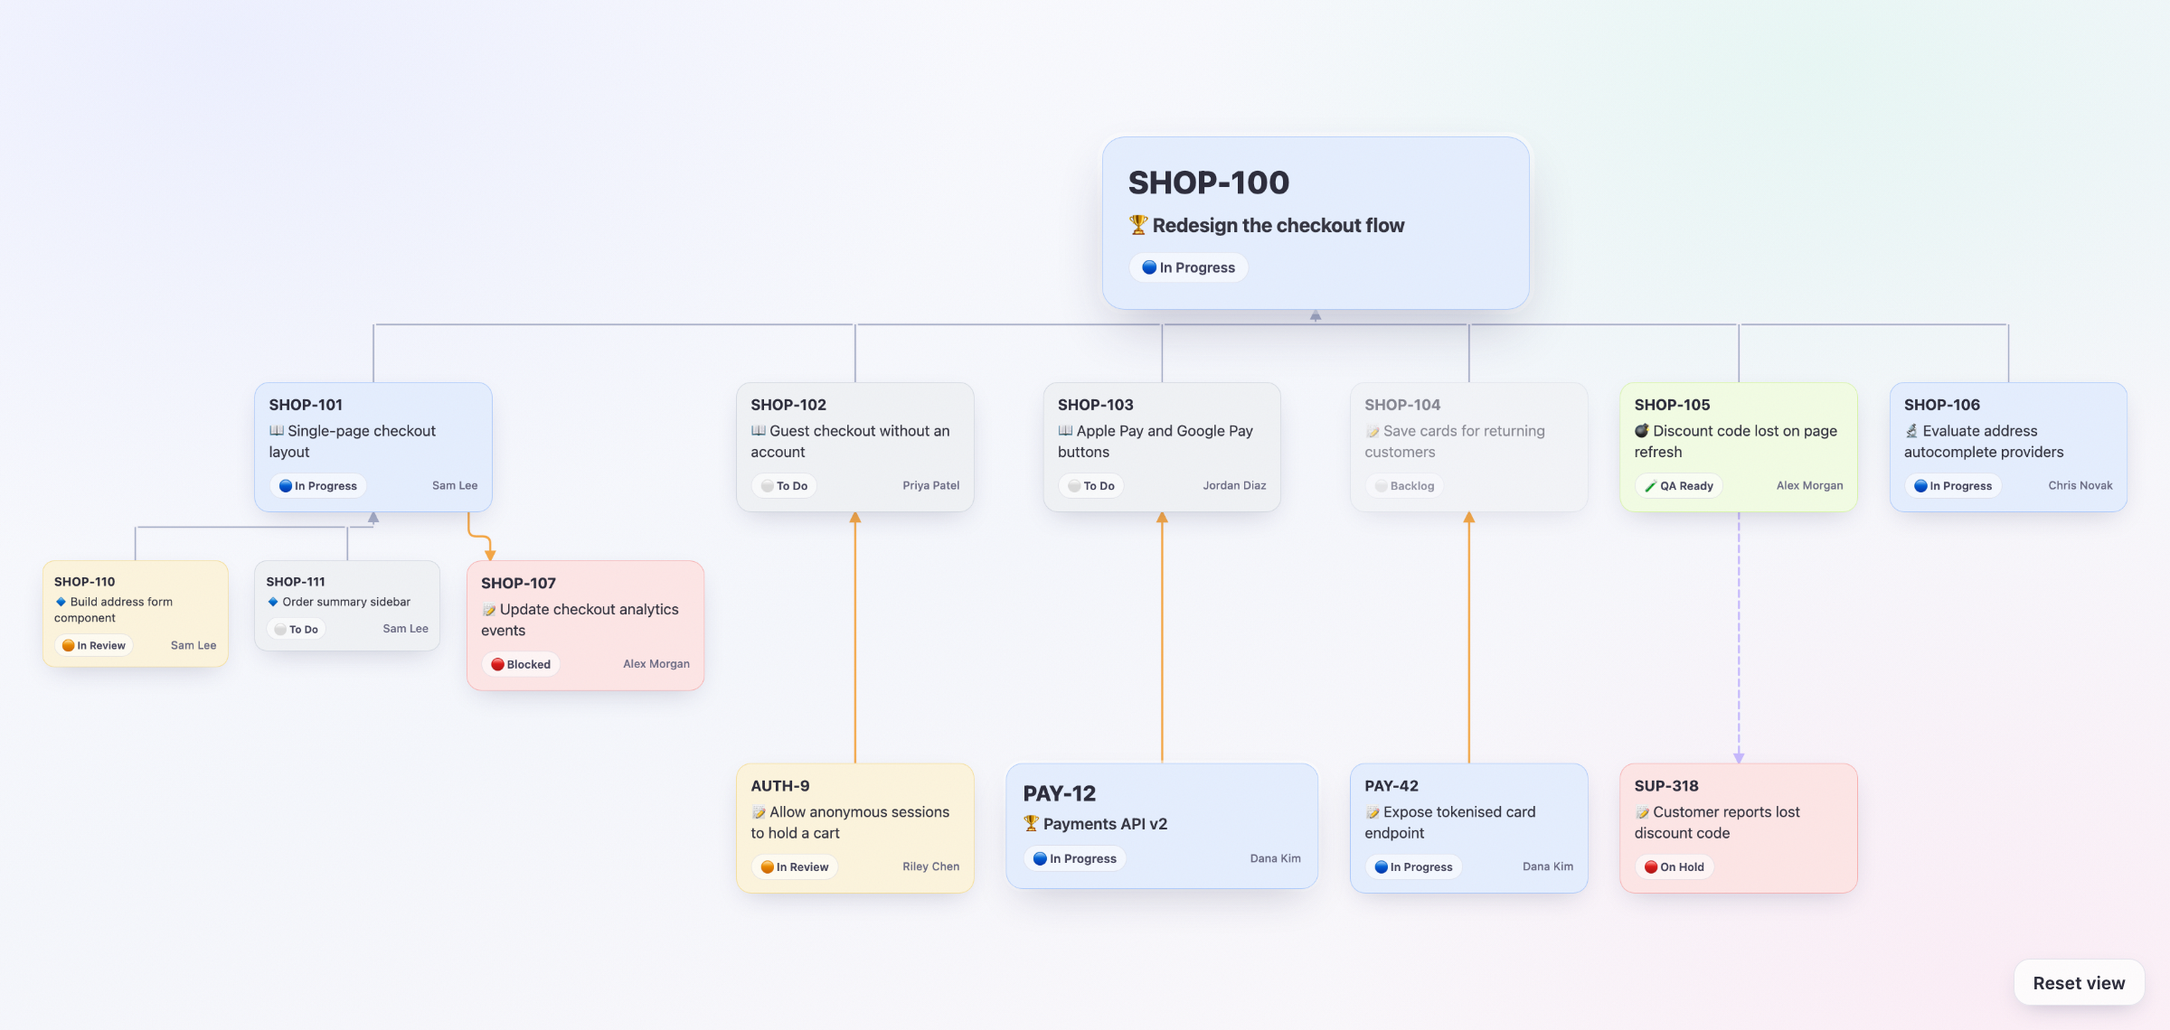
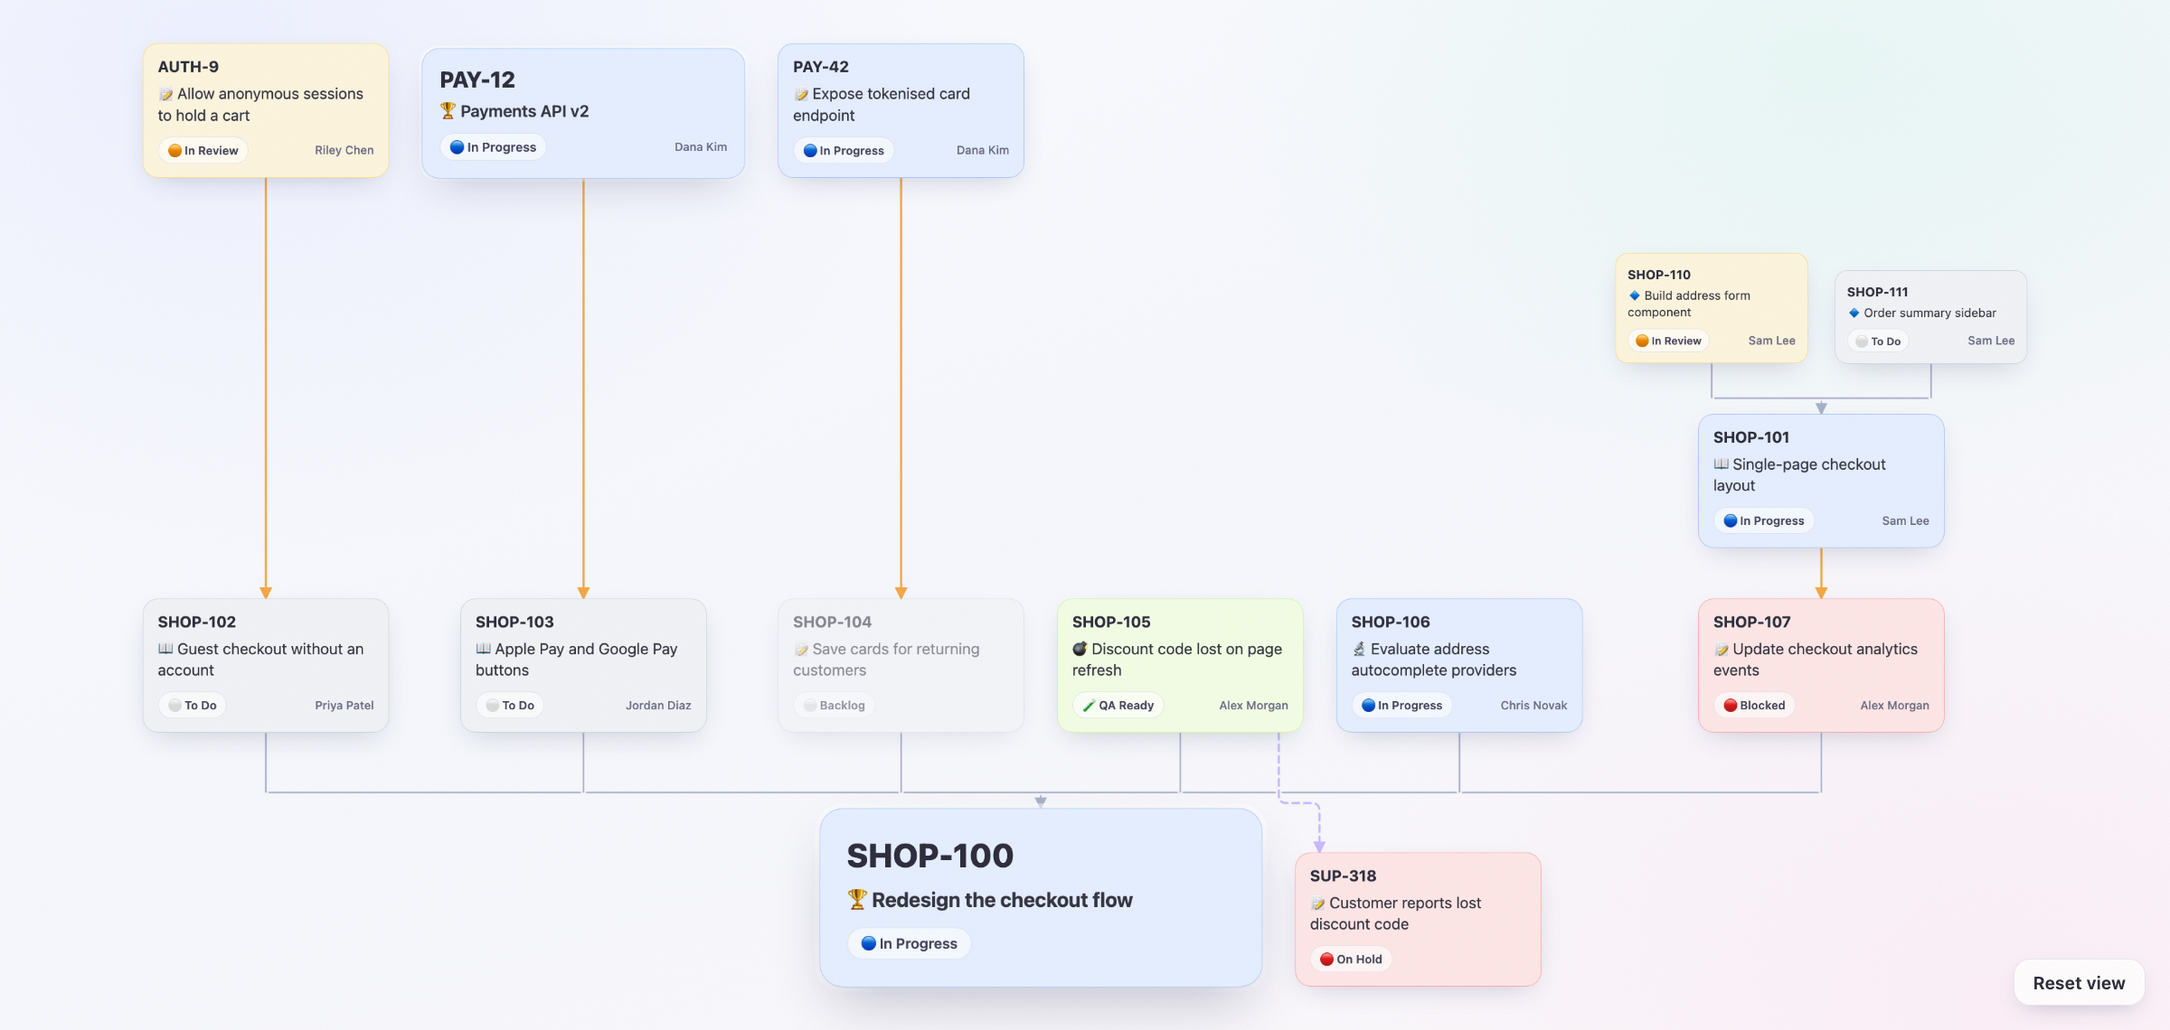
Switch to top-down flow

diff --git a/examples/demo.html b/examples/demo.html
@@ -209,29 +209,29 @@ function render(){
     childParent[child] = parent;
     childKids[parent].push(child);
   });
-  // Nest a blocked task UNDER its blocker so the children form a blocking tree. The blocker has to
-  // sit inside the branch the blocked task already belongs to, so a real sub-task is never dragged
-  // out of its own parent. The blocked task's now-redundant line to its old parent is dropped
-  // (see elist below).
+  // Nest a blocker UNDER the task it blocks, so work flows from the far end of the tree toward the
+  // epic. The blocked task has to sit inside the branch the blocker already belongs to, so a real
+  // sub-task is never dragged out of its own parent. The blocker's now-redundant line to its old
+  // parent is dropped (see elist below).
   const isAncestor = (a, k) => { for (let x = k, n = 0; x !== undefined && n < 5000; x = childParent[x], n++){ if (x === a) return true; } return false; };
   const depthOf = k => { let d = 0; for (let x = childParent[k]; x !== undefined && d < 5000; x = childParent[x]) d++; return d; };
   const blockLinks = DATA.edges
     .filter(e => e.kind === 'block' && elById[e.head] && elById[(e.from === e.head) ? e.to : e.from])
     .map(e => ({ blocked: e.head, blocker: (e.from === e.head) ? e.to : e.from }));
-  // Keep passing until nothing moves. A blocker is often nested itself on a later pass, and only
-  // then do the tasks it blocks become eligible. Deepest blocker first, so a task with several
-  // blockers ends up below all of them rather than above the ones handled later.
+  // Keep passing until nothing moves. A blocked task is often nested itself on a later pass, and
+  // only then do its blockers become eligible. Deepest blocked task first, so a task that blocks
+  // several others ends up further from the epic than all of them.
   for (let pass = 0; pass < 100; pass++){
     let moved = false;
-    blockLinks.slice().sort((a, b) => depthOf(b.blocker) - depthOf(a.blocker)).forEach(({ blocked, blocker }) => {
-      const p = childParent[blocked];
-      if (p === undefined || p === blocker) return;
-      if (!isAncestor(p, blocker)) return;        // blocker must be inside the blocked task's branch
-      if (isAncestor(blocked, blocker)) return;   // no cycle
-      const arr = childKids[p], i = arr.indexOf(blocked);
+    blockLinks.slice().sort((a, b) => depthOf(b.blocked) - depthOf(a.blocked)).forEach(({ blocked, blocker }) => {
+      const p = childParent[blocker];
+      if (p === undefined || p === blocked) return;
+      if (!isAncestor(p, blocked)) return;        // blocked task must be inside the blocker's branch
+      if (isAncestor(blocker, blocked)) return;   // no cycle
+      const arr = childKids[p], i = arr.indexOf(blocker);
       if (i >= 0) arr.splice(i, 1);
-      childParent[blocked] = blocker;
-      childKids[blocker].push(blocked);
+      childParent[blocker] = blocked;
+      childKids[blocked].push(blocker);
       moved = true;
     });
     if (!moved) break;
@@ -239,6 +239,10 @@ function render(){
   const isNested = k => childParent[k] !== undefined && childParent[k] !== epic;
   const rootOf = k => { let r = k, n = 0; while (isNested(r) && n++ < 5000) r = childParent[r]; return r; };
   const nestedKids = k => (k === epic ? [] : childKids[k]);
+
+  // The layout is built top-down with the epic at the top, then mirrored vertically once every card
+  // is placed, so the epic ends up at the bottom and each sub-tree sits above the card it feeds into.
+  // "Beneath" and "top" in the layout code below refer to the unmirrored space.
 
   // Recursively size each node's box: the card plus its child sub-tree laid out in a single
   // centred row beneath it, so all siblings read as equals at the same height directly under it.
@@ -274,8 +278,6 @@ function render(){
   const pos = {};
   function place(k, cx, top){
     const s = sizeOf(k), b = box[k];
-    elById[k].style.left = (cx - s.w / 2) + 'px';
-    elById[k].style.top  = top + 'px';
     pos[k] = { x: cx, y: top + s.h / 2, w: s.w, h: s.h };
     if (!b.rows.length) return;
     let y = top + s.h + GAP_Y;
@@ -296,12 +298,14 @@ function render(){
   g.setGraph({ rankdir:'TB', nodesep:34, ranksep:78, marginx:28, marginy:28 });
   g.setDefaultEdgeLabel(() => ({}));
   roots.forEach(k => g.setNode(k, { width: box[k].w, height: box[k].h }));
-  // Every direct child of the epic stays on the top row: only the epic itself may rank one below
-  // it. Otherwise a deep dependency reaching into a child's sub-tree would drag that whole child
-  // (and its siblings would no longer line up) far down the page.
+  // Each edge runs from its head (the dependent end, closer to the epic) to its tail, so after the
+  // mirror every blocker and sub-task lands further from the epic than the task it feeds.
+  // Every direct child of the epic stays on the row next to the epic: only the epic itself may rank
+  // closer. Otherwise a deep dependency reaching into a child's sub-tree would drag that whole child
+  // (and its siblings would no longer line up) far away from the epic.
   const epicChild = k => childParent[k] === epic;
   DATA.edges.forEach(e => {
-    const a = rootOf(e.from), b = rootOf(e.to);
+    const a = rootOf(e.head), b = rootOf(e.from === e.head ? e.to : e.from);
     if (a === b || !g.hasNode(a) || !g.hasNode(b)) return;
     if (epicChild(b) && a !== epic) return;
     g.setEdge(a, b, { weight: e.kind === 'child' ? 30 : 1, minlen: 1 });
@@ -316,6 +320,12 @@ function render(){
   roots.forEach(k => { const nd = g.node(k); place(k, nd.x, rankTop[Math.round(nd.y)]); });
 
   const W = g.graph().width, H = g.graph().height;
+  Object.keys(pos).forEach(k => {
+    const p = pos[k];
+    p.y = H - p.y;
+    elById[k].style.left = (p.x - p.w / 2) + 'px';
+    elById[k].style.top  = (p.y - p.h / 2) + 'px';
+  });
   stage.style.width = W + 'px';
   stage.style.height = H + 'px';
 
@@ -354,8 +364,8 @@ function render(){
   // buses (pass A) are recorded first, so the block / cause links (pass B) route clear of them too.
   const usedH = [], usedV = [];   // drawn segments: {c: fixed coord, lo, hi: span along the run}
 
-  // (A) parent -> children: one clean org-chart "bus" per parent (trunk up to the parent, a
-  //     horizontal bar, then a straight branch straight down to each child). No squish, no detours.
+  // (A) children -> parent: one clean org-chart "bus" per parent (a straight branch down from each
+  //     child, a horizontal bar, then a trunk down into the parent). No squish, no detours.
   const childByParent = {};
   elist.forEach(x => {
     if (x.e.kind !== 'child') return;
@@ -367,16 +377,16 @@ function render(){
     const kk = childByParent[pk].filter(k => pos[k]);
     const kids = kk.map(k => pos[k]);
     if (!kids.length) return;
-    const pBottom = P.y + P.h / 2;
-    const busY = pBottom + 16;   // hug the parent, leaving the rest of the gap clear for block lanes
+    const pTop = P.y - P.h / 2;
+    const busY = pTop - 16;   // hug the parent, leaving the rest of the gap clear for block lanes
     const minX = Math.min(P.x, ...kids.map(c => c.x)), maxX = Math.max(P.x, ...kids.map(c => c.x));
-    let g = seg(`M ${P.x.toFixed(1)} ${busY.toFixed(1)} L ${P.x.toFixed(1)} ${pBottom.toFixed(1)}`, 'child', true);
+    let g = seg(`M ${P.x.toFixed(1)} ${busY.toFixed(1)} L ${P.x.toFixed(1)} ${pTop.toFixed(1)}`, 'child', true);
     if (maxX - minX > 1) g += seg(`M ${minX.toFixed(1)} ${busY.toFixed(1)} L ${maxX.toFixed(1)} ${busY.toFixed(1)}`, 'child', false);
-    kids.forEach(c => { g += seg(`M ${c.x.toFixed(1)} ${busY.toFixed(1)} L ${c.x.toFixed(1)} ${(c.y - c.h / 2).toFixed(1)}`, 'child', false); });
+    kids.forEach(c => { g += seg(`M ${c.x.toFixed(1)} ${(c.y + c.h / 2).toFixed(1)} L ${c.x.toFixed(1)} ${busY.toFixed(1)}`, 'child', false); });
     edgesSvg += `<g class="edge" data-parent="${pk}" data-children="${kk.join(',')}">${g}</g>`;
-    usedV.push({ c: P.x, lo: busY, hi: pBottom });
+    usedV.push({ c: P.x, lo: busY, hi: pTop });
     usedH.push({ c: busY, lo: minX, hi: maxX });
-    kids.forEach(c => usedV.push({ c: c.x, lo: c.y - c.h / 2, hi: busY }));
+    kids.forEach(c => usedV.push({ c: c.x, lo: c.y + c.h / 2, hi: busY }));
   });
 
   // (B) block / cause links: route each as an orthogonal line that bends AROUND the cards. A port
@@ -418,13 +428,13 @@ function render(){
     addAttach(x.e.from, x.fromSide, x, 'from', x.e.to);
     addAttach(x.e.to,   x.toSide,   x, 'to',   x.e.from);
   });
-  // The child bus already occupies the centre of a parent's bottom (its trunk) and the centre of
-  // each child's top (its branch). Reserve those points so a block / cause port never lands on the
-  // same spot a bus line enters or leaves.
+  // The child bus already occupies the centre of a parent's top (its trunk) and the centre of
+  // each child's bottom (its branch). Reserve those points so a block / cause port never lands on
+  // the same spot a bus line enters or leaves.
   const busBottom = {}, busTop = {};
   Object.keys(childByParent).forEach(pk => {
-    if (pos[pk] && childByParent[pk].some(k => pos[k])) busBottom[pk] = true;
-    childByParent[pk].forEach(k => { if (pos[k]) busTop[k] = true; });
+    if (pos[pk] && childByParent[pk].some(k => pos[k])) busTop[pk] = true;
+    childByParent[pk].forEach(k => { if (pos[k]) busBottom[k] = true; });
   });
   const port = {};
   Object.keys(attach).forEach(nk => {
@@ -511,7 +521,7 @@ function render(){
     return db - da;
   });
   // Push a stub-end further out along its normal if its turn level lands on top of a run already
-  // drawn (e.g. a bus bar right below a card) — that's where the short approach legs would graze.
+  // drawn (e.g. a bus bar right above a card), which is where the short approach legs would graze.
   const dodge = (pt, nx, ny) => {
     for (let n = 0; n < 8; n++){
       if (ny !== 0){ const g = usedH.find(s => Math.abs(s.c - pt.y) < 12 && pt.x + 1 > s.lo && pt.x - 1 < s.hi); if (!g) break; pt.y = g.c + ny * 13; }

diff --git a/src/page.html b/src/page.html
@@ -209,29 +209,29 @@ function render(){
     childParent[child] = parent;
     childKids[parent].push(child);
   });
-  // Nest a blocked task UNDER its blocker so the children form a blocking tree. The blocker has to
-  // sit inside the branch the blocked task already belongs to, so a real sub-task is never dragged
-  // out of its own parent. The blocked task's now-redundant line to its old parent is dropped
-  // (see elist below).
+  // Nest a blocker UNDER the task it blocks, so work flows from the far end of the tree toward the
+  // epic. The blocked task has to sit inside the branch the blocker already belongs to, so a real
+  // sub-task is never dragged out of its own parent. The blocker's now-redundant line to its old
+  // parent is dropped (see elist below).
   const isAncestor = (a, k) => { for (let x = k, n = 0; x !== undefined && n < 5000; x = childParent[x], n++){ if (x === a) return true; } return false; };
   const depthOf = k => { let d = 0; for (let x = childParent[k]; x !== undefined && d < 5000; x = childParent[x]) d++; return d; };
   const blockLinks = DATA.edges
     .filter(e => e.kind === 'block' && elById[e.head] && elById[(e.from === e.head) ? e.to : e.from])
     .map(e => ({ blocked: e.head, blocker: (e.from === e.head) ? e.to : e.from }));
-  // Keep passing until nothing moves. A blocker is often nested itself on a later pass, and only
-  // then do the tasks it blocks become eligible. Deepest blocker first, so a task with several
-  // blockers ends up below all of them rather than above the ones handled later.
+  // Keep passing until nothing moves. A blocked task is often nested itself on a later pass, and
+  // only then do its blockers become eligible. Deepest blocked task first, so a task that blocks
+  // several others ends up further from the epic than all of them.
   for (let pass = 0; pass < 100; pass++){
     let moved = false;
-    blockLinks.slice().sort((a, b) => depthOf(b.blocker) - depthOf(a.blocker)).forEach(({ blocked, blocker }) => {
-      const p = childParent[blocked];
-      if (p === undefined || p === blocker) return;
-      if (!isAncestor(p, blocker)) return;        // blocker must be inside the blocked task's branch
-      if (isAncestor(blocked, blocker)) return;   // no cycle
-      const arr = childKids[p], i = arr.indexOf(blocked);
+    blockLinks.slice().sort((a, b) => depthOf(b.blocked) - depthOf(a.blocked)).forEach(({ blocked, blocker }) => {
+      const p = childParent[blocker];
+      if (p === undefined || p === blocked) return;
+      if (!isAncestor(p, blocked)) return;        // blocked task must be inside the blocker's branch
+      if (isAncestor(blocker, blocked)) return;   // no cycle
+      const arr = childKids[p], i = arr.indexOf(blocker);
       if (i >= 0) arr.splice(i, 1);
-      childParent[blocked] = blocker;
-      childKids[blocker].push(blocked);
+      childParent[blocker] = blocked;
+      childKids[blocked].push(blocker);
       moved = true;
     });
     if (!moved) break;
@@ -239,6 +239,10 @@ function render(){
   const isNested = k => childParent[k] !== undefined && childParent[k] !== epic;
   const rootOf = k => { let r = k, n = 0; while (isNested(r) && n++ < 5000) r = childParent[r]; return r; };
   const nestedKids = k => (k === epic ? [] : childKids[k]);
+
+  // The layout is built top-down with the epic at the top, then mirrored vertically once every card
+  // is placed, so the epic ends up at the bottom and each sub-tree sits above the card it feeds into.
+  // "Beneath" and "top" in the layout code below refer to the unmirrored space.
 
   // Recursively size each node's box: the card plus its child sub-tree laid out in a single
   // centred row beneath it, so all siblings read as equals at the same height directly under it.
@@ -274,8 +278,6 @@ function render(){
   const pos = {};
   function place(k, cx, top){
     const s = sizeOf(k), b = box[k];
-    elById[k].style.left = (cx - s.w / 2) + 'px';
-    elById[k].style.top  = top + 'px';
     pos[k] = { x: cx, y: top + s.h / 2, w: s.w, h: s.h };
     if (!b.rows.length) return;
     let y = top + s.h + GAP_Y;
@@ -296,12 +298,14 @@ function render(){
   g.setGraph({ rankdir:'TB', nodesep:34, ranksep:78, marginx:28, marginy:28 });
   g.setDefaultEdgeLabel(() => ({}));
   roots.forEach(k => g.setNode(k, { width: box[k].w, height: box[k].h }));
-  // Every direct child of the epic stays on the top row: only the epic itself may rank one below
-  // it. Otherwise a deep dependency reaching into a child's sub-tree would drag that whole child
-  // (and its siblings would no longer line up) far down the page.
+  // Each edge runs from its head (the dependent end, closer to the epic) to its tail, so after the
+  // mirror every blocker and sub-task lands further from the epic than the task it feeds.
+  // Every direct child of the epic stays on the row next to the epic: only the epic itself may rank
+  // closer. Otherwise a deep dependency reaching into a child's sub-tree would drag that whole child
+  // (and its siblings would no longer line up) far away from the epic.
   const epicChild = k => childParent[k] === epic;
   DATA.edges.forEach(e => {
-    const a = rootOf(e.from), b = rootOf(e.to);
+    const a = rootOf(e.head), b = rootOf(e.from === e.head ? e.to : e.from);
     if (a === b || !g.hasNode(a) || !g.hasNode(b)) return;
     if (epicChild(b) && a !== epic) return;
     g.setEdge(a, b, { weight: e.kind === 'child' ? 30 : 1, minlen: 1 });
@@ -316,6 +320,12 @@ function render(){
   roots.forEach(k => { const nd = g.node(k); place(k, nd.x, rankTop[Math.round(nd.y)]); });
 
   const W = g.graph().width, H = g.graph().height;
+  Object.keys(pos).forEach(k => {
+    const p = pos[k];
+    p.y = H - p.y;
+    elById[k].style.left = (p.x - p.w / 2) + 'px';
+    elById[k].style.top  = (p.y - p.h / 2) + 'px';
+  });
   stage.style.width = W + 'px';
   stage.style.height = H + 'px';
 
@@ -354,8 +364,8 @@ function render(){
   // buses (pass A) are recorded first, so the block / cause links (pass B) route clear of them too.
   const usedH = [], usedV = [];   // drawn segments: {c: fixed coord, lo, hi: span along the run}
 
-  // (A) parent -> children: one clean org-chart "bus" per parent (trunk up to the parent, a
-  //     horizontal bar, then a straight branch straight down to each child). No squish, no detours.
+  // (A) children -> parent: one clean org-chart "bus" per parent (a straight branch down from each
+  //     child, a horizontal bar, then a trunk down into the parent). No squish, no detours.
   const childByParent = {};
   elist.forEach(x => {
     if (x.e.kind !== 'child') return;
@@ -367,16 +377,16 @@ function render(){
     const kk = childByParent[pk].filter(k => pos[k]);
     const kids = kk.map(k => pos[k]);
     if (!kids.length) return;
-    const pBottom = P.y + P.h / 2;
-    const busY = pBottom + 16;   // hug the parent, leaving the rest of the gap clear for block lanes
+    const pTop = P.y - P.h / 2;
+    const busY = pTop - 16;   // hug the parent, leaving the rest of the gap clear for block lanes
     const minX = Math.min(P.x, ...kids.map(c => c.x)), maxX = Math.max(P.x, ...kids.map(c => c.x));
-    let g = seg(`M ${P.x.toFixed(1)} ${busY.toFixed(1)} L ${P.x.toFixed(1)} ${pBottom.toFixed(1)}`, 'child', true);
+    let g = seg(`M ${P.x.toFixed(1)} ${busY.toFixed(1)} L ${P.x.toFixed(1)} ${pTop.toFixed(1)}`, 'child', true);
     if (maxX - minX > 1) g += seg(`M ${minX.toFixed(1)} ${busY.toFixed(1)} L ${maxX.toFixed(1)} ${busY.toFixed(1)}`, 'child', false);
-    kids.forEach(c => { g += seg(`M ${c.x.toFixed(1)} ${busY.toFixed(1)} L ${c.x.toFixed(1)} ${(c.y - c.h / 2).toFixed(1)}`, 'child', false); });
+    kids.forEach(c => { g += seg(`M ${c.x.toFixed(1)} ${(c.y + c.h / 2).toFixed(1)} L ${c.x.toFixed(1)} ${busY.toFixed(1)}`, 'child', false); });
     edgesSvg += `<g class="edge" data-parent="${pk}" data-children="${kk.join(',')}">${g}</g>`;
-    usedV.push({ c: P.x, lo: busY, hi: pBottom });
+    usedV.push({ c: P.x, lo: busY, hi: pTop });
     usedH.push({ c: busY, lo: minX, hi: maxX });
-    kids.forEach(c => usedV.push({ c: c.x, lo: c.y - c.h / 2, hi: busY }));
+    kids.forEach(c => usedV.push({ c: c.x, lo: c.y + c.h / 2, hi: busY }));
   });
 
   // (B) block / cause links: route each as an orthogonal line that bends AROUND the cards. A port
@@ -418,13 +428,13 @@ function render(){
     addAttach(x.e.from, x.fromSide, x, 'from', x.e.to);
     addAttach(x.e.to,   x.toSide,   x, 'to',   x.e.from);
   });
-  // The child bus already occupies the centre of a parent's bottom (its trunk) and the centre of
-  // each child's top (its branch). Reserve those points so a block / cause port never lands on the
-  // same spot a bus line enters or leaves.
+  // The child bus already occupies the centre of a parent's top (its trunk) and the centre of
+  // each child's bottom (its branch). Reserve those points so a block / cause port never lands on
+  // the same spot a bus line enters or leaves.
   const busBottom = {}, busTop = {};
   Object.keys(childByParent).forEach(pk => {
-    if (pos[pk] && childByParent[pk].some(k => pos[k])) busBottom[pk] = true;
-    childByParent[pk].forEach(k => { if (pos[k]) busTop[k] = true; });
+    if (pos[pk] && childByParent[pk].some(k => pos[k])) busTop[pk] = true;
+    childByParent[pk].forEach(k => { if (pos[k]) busBottom[k] = true; });
   });
   const port = {};
   Object.keys(attach).forEach(nk => {
@@ -511,7 +521,7 @@ function render(){
     return db - da;
   });
   // Push a stub-end further out along its normal if its turn level lands on top of a run already
-  // drawn (e.g. a bus bar right below a card) — that's where the short approach legs would graze.
+  // drawn (e.g. a bus bar right above a card), which is where the short approach legs would graze.
   const dodge = (pt, nx, ny) => {
     for (let n = 0; n < 8; n++){
       if (ny !== 0){ const g = usedH.find(s => Math.abs(s.c - pt.y) < 12 && pt.x + 1 > s.lo && pt.x - 1 < s.hi); if (!g) break; pt.y = g.c + ny * 13; }

diff --git a/README.md b/README.md
@@ -7,10 +7,10 @@ their links, and writes a single self-contained HTML page you can pan, zoom and 
 
 ## What it shows
 
-- The epic at the top, with its child issues laid out in a tree beneath it
+- The epic at the bottom, with its child issues laid out in a tree above it, each feeding down into its parent
 - Blocking links (orange) and "causes" links (dashed purple) between issues, including issues outside the epic
 - Each card's key, summary, type, status and assignee, linking back to Jira
-- Blocked issues are placed under the issue blocking them, so the order work has to happen in reads top to bottom
+- Blockers are placed above the issue they block, so the order work has to happen in reads top to bottom and ends at the epic
 
 Done, Closed and Resolved issues are left out.
 
